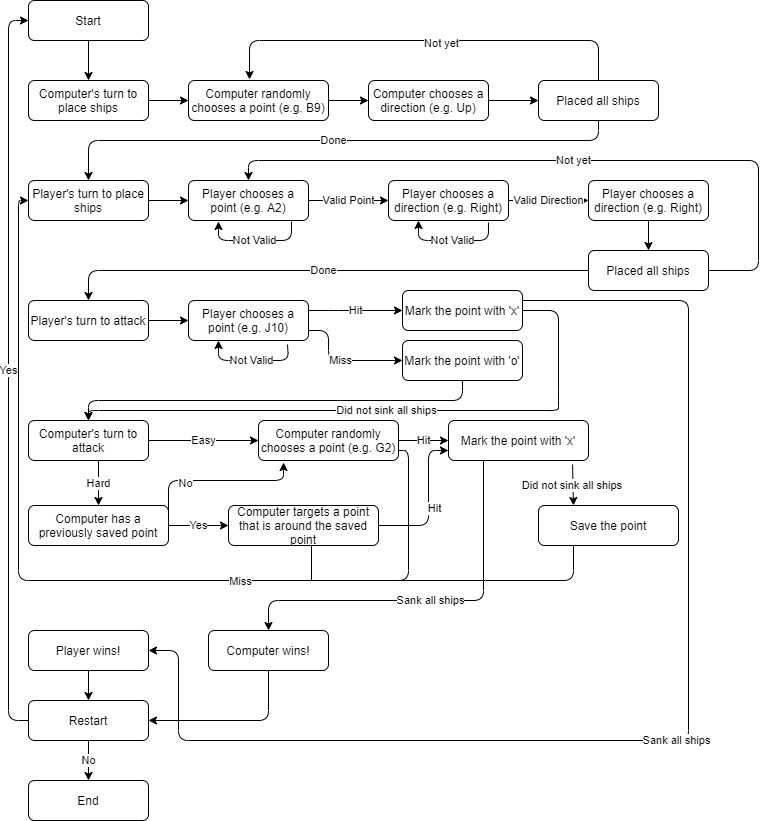
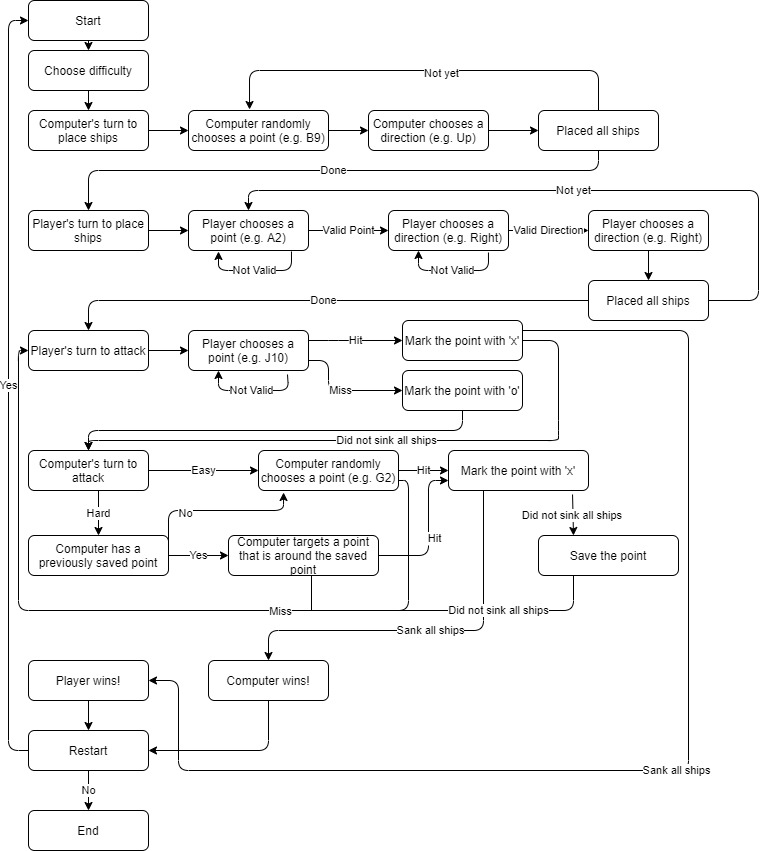
README updated

diff --git a/README.md b/README.md
@@ -1,5 +1,11 @@
 # Battleship C++
 
+Battleship is a fun game where your goal is to sink the enemy(computer)'s ships.
+
+### Flow Diagram
+
+![Diagram](battleship_xml.jpg)
+
 ### Build Instructions
 Git clone:
 ```bash
@@ -13,4 +19,152 @@ $ make
 $ ./battleship
 ```
 
-![Diagram](battleship_xml.jpg)
+### How to Play
+
+**Choose Difficulty**
+```
+Example: hard
+Choose difficulty easy/hard: hard
+```
+
+**Place Your Ships**
+Note: ships cannot overlap and must be placed on the grid!
+
+```
+Example: G5
+Place your Destroyer(length 2): a3
+```
+
+
+```
+Example: right
+Enter the direction(left/right/up/down): down
+```
+
+```
+      Your Grid
+  1 2 3 4 5 6 7 8 9 10
+A . . d . . . . . . .
+B . . d . . . . . . .
+C . . . . . . . . . .
+D . . . . . . . . . .
+E . . . . . . . . . .
+F . . . . . . . . . .
+G . . . . . . . . . .
+H . . . . . . . . . .
+I . . . . . . . . . .
+J . . . . . . . . . .
+```
+
+d = Destroyer (length 2)
+s = Submarine (length 3)
+c = Cruiser (length 3)
+b = Battleship (length 4)
+C = Carrier (length 5)
+
+**Example: After You Place All 5 Ships**
+```
+      Your Grid
+  1 2 3 4 5 6 7 8 9 10
+A . . d . . . . . . .
+B . . d . . . . . . .
+C . . . . . . . C . .
+D . s s s . . . C . .
+E . . . . . . . C . .
+F . b b b b . . C . .
+G . . . . . . . C . .
+H . . . . . . . . . c
+I . . . . . . . . . c
+J . . . . . . . . . c
+```
+
+**Attack a Point**
+If you hit the computer's ship, the point is marked with an x.
+If you miss, the point is marked with an o.
+
+After you attack, the computer attacks.
+After the computer attacks, you attack.
+Game keeps going until someone's ships are all sunk.
+```
+Example: G5
+Attack a point: c3
+Hit!
+Computer attacks B9. Missed!
+
+      Enemy Grid
+  1 2 3 4 5 6 7 8 9 10
+A . . . . . . . . . .
+B . . . . . . . . . .
+C . . x . . . . . . .
+D . . . . . . . . . .
+E . . . . . . . . . .
+F . . . . . . . . . .
+G . . . . . . . . . .
+H . . . . . . . . . .
+I . . . . . . . . . .
+J . . . . . . . . . .
+
+      Your Grid
+  1 2 3 4 5 6 7 8 9 10
+A . . d . . . . . . .
+B . . d . . . . . . .
+C . . . . . . . C . .
+D . s s s . . . C . .
+E . . . . . . . C . .
+F . b b b b . . C . .
+G . . . . . . . C . .
+H . . . . . . . . . c
+I . . . . . . . . . c
+J . . . . . . . . . c
+```
+**Example: You Sank Computer's Ships First**
+```
+      Enemy Grid
+  1 2 3 4 5 6 7 8 9 10
+A x o o o o o o o . o
+B x x . . . . . . o .
+C x x x x x . . x . .
+D . x . . . . . . . o
+E o x o o o . . . . x
+F . x . . . . . . . x
+G . . . . . . . . . x
+H o o o o o o o o o x
+I . . . . . . . . . o
+J o o o o o o o o o o
+
+
+      Your Grid
+  1 2 3 4 5 6 7 8 9 10
+A . . x . . . . . . .
+B . . x . . . . . . .
+C . . . . . . . x . .
+D . x x x . . . x . .
+E . . . . . . . x . .
+F . x x x b . . x . .
+G . . . . . . . x . .
+H . . . . . . . . . x
+I . . . . . . . . . x
+J . . . . . . . . . x
+
+***************************
+Computer's Destroyer(length 2): afloat
+Computer's Submarine(length 3): sunk
+Computer's Cruiser(length 3): sunk
+Computer's Battleship(length 4): sunk
+Computer's Carrier(length 5): sunk
+
+Example: G5
+Attack a point: c9
+Hit!
+Computer's Destroyer sunk!
+You Win!
+```
+
+**Restart**
+When the game ends, you can restart by typing yes.
+If you do not want to, type no.
+```
+Restart?
+Type yes or no
+no
+```
